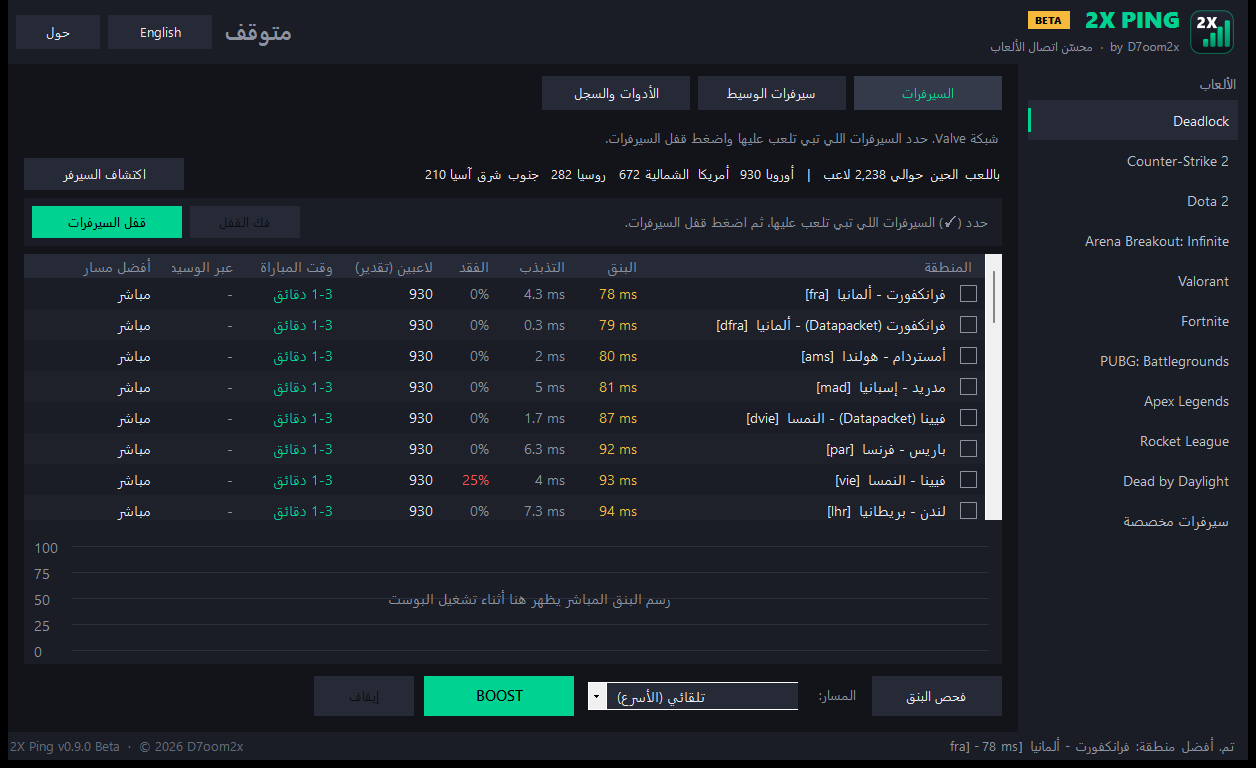
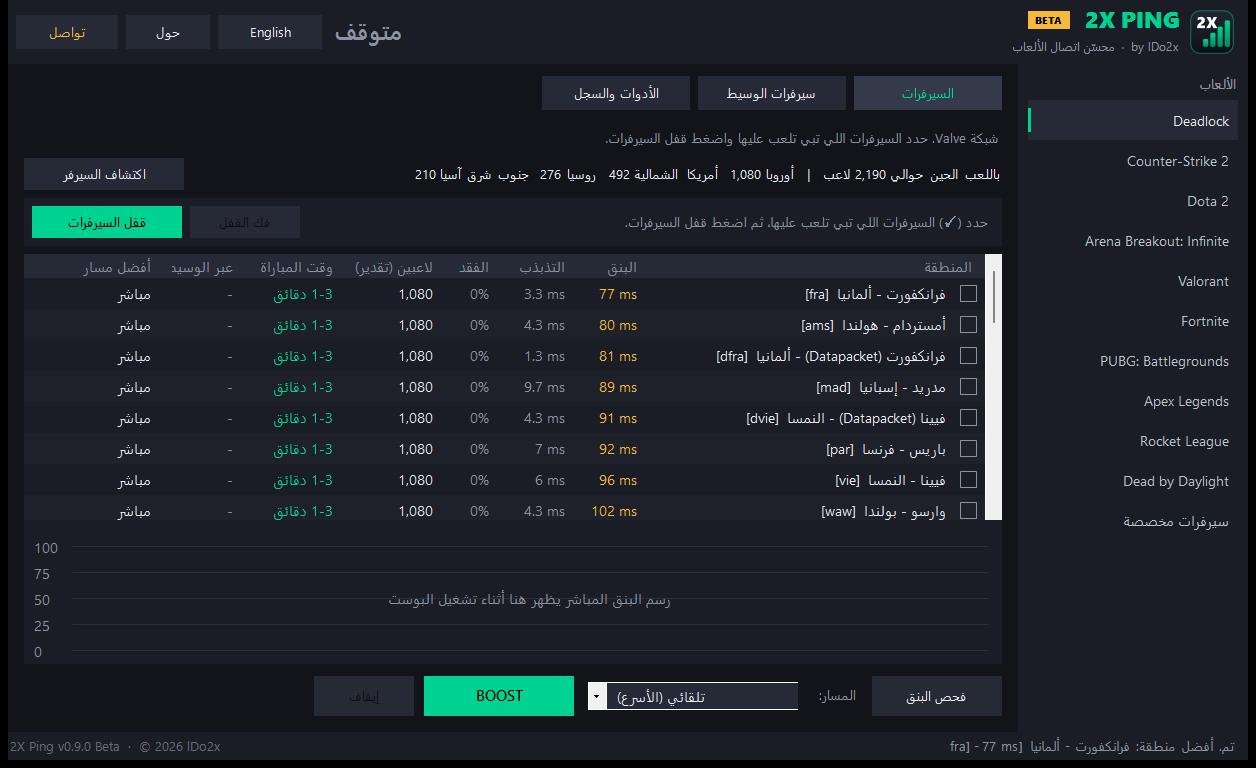
Rename developer to lDo2x

diff --git a/src/Brand.cs b/src/Brand.cs
@@ -5,11 +5,11 @@ using System.Reflection;
 using System.Windows.Forms;
 
 [assembly: AssemblyTitle("2X Ping")]
-[assembly: AssemblyDescription("2X Ping - game connection optimizer by D7oom2x")]
-[assembly: AssemblyCompany("D7oom2x")]
+[assembly: AssemblyDescription("2X Ping - game connection optimizer by lDo2x")]
+[assembly: AssemblyCompany("lDo2x")]
 [assembly: AssemblyProduct("2X Ping")]
-[assembly: AssemblyCopyright("Copyright © 2026 D7oom2x. MIT License.")]
-[assembly: AssemblyTrademark("2X Ping by D7oom2x")]
+[assembly: AssemblyCopyright("Copyright © 2026 lDo2x. MIT License.")]
+[assembly: AssemblyTrademark("2X Ping by lDo2x")]
 // Release version: change it here (and tag the GitHub release v<version>-beta).
 [assembly: AssemblyVersion("0.9.0.0")]
 [assembly: AssemblyFileVersion("0.9.0.0")]
@@ -21,7 +21,7 @@ namespace PingBoost
     static class Brand
     {
         public const string Name = "2X Ping";
-        public const string Developer = "D7oom2x";
+        public const string Developer = "lDo2x";
         public const string Year = "2026";
         public static readonly bool IsBeta = true;
 

diff --git a/src/Program.cs b/src/Program.cs
@@ -13,7 +13,7 @@ namespace PingBoost
             // one copy at a time: two copies would fight over the tunnel and firewall rules
             Lang.Ar = Storage.LoadArabic();
             bool first;
-            using (new Mutex(true, "Local\\D7oom2x.2XPing", out first))
+            using (new Mutex(true, "Local\\lDo2x.2XPing", out first))
             {
                 if (!first)
                 {

diff --git a/README.md b/README.md
@@ -6,7 +6,7 @@
 
 <p align="center">
 محسّن اتصال الألعاب: يقيس البنق، ويختار أفضل سيرفر وأفضل مسار، ويخليك تلعب على السيرفرات اللي تبيها.<br>
-من تطوير <b>D7oom2x</b>
+من تطوير <b>lDo2x</b>
 </p>
 
 <p align="center">
@@ -110,7 +110,7 @@ powershell -ExecutionPolicy Bypass -File build.ps1 -Release   # release\2XPing-v
 للمساهمة في الكود: [CONTRIBUTING.md](CONTRIBUTING.md). للأمان والخصوصية: [SECURITY.md](SECURITY.md).
 
 ## الرخصة
-[MIT](LICENSE) © 2026 **D7oom2x**: مجاني ومفتوح المصدر. تقدر تستخدمه وتعدّله، بشرط تحتفظ باسم المطوّر والرخصة.
+[MIT](LICENSE) © 2026 **lDo2x**: مجاني ومفتوح المصدر. تقدر تستخدمه وتعدّله، بشرط تحتفظ باسم المطوّر والرخصة.
 
 <sub>2X Ping مشروع مستقل وغير تابع لـ Valve أو Tencent أو أي شركة ألعاب. أسماء الألعاب علامات تجارية لأصحابها.</sub>
 

diff --git a/README.en.md b/README.en.md
@@ -4,7 +4,7 @@
 
 <p align="center">
 Game connection optimizer: measures ping, picks the best server and route, and lets you choose where you play.<br>
-Made by <b>D7oom2x</b>
+Made by <b>lDo2x</b>
 </p>
 
 <p align="center">
@@ -89,6 +89,6 @@ What's next: [ROADMAP.md](ROADMAP.md)
 Contributing: [CONTRIBUTING.md](CONTRIBUTING.md) · Security & privacy: [SECURITY.md](SECURITY.md)
 
 ## License
-[MIT](LICENSE) © 2026 **D7oom2x**. Free and open source; keep the copyright notice when you reuse it.
+[MIT](LICENSE) © 2026 **lDo2x**. Free and open source; keep the copyright notice when you reuse it.
 
 <sub>2X Ping is an independent project, not affiliated with Valve, Tencent or any game company. Game names are trademarks of their owners.</sub>

diff --git a/SECURITY.md b/SECURITY.md
@@ -3,7 +3,7 @@
 ## Reporting a problem
 
 If you find a security issue in 2X Ping, please **do not** open a public issue.
-Contact the developer (D7oom2x) privately through GitHub instead, and give them time to fix it before sharing details.
+Contact the developer (lDo2x) privately through GitHub instead, and give them time to fix it before sharing details.
 
 ## What 2X Ping does on your PC
 
